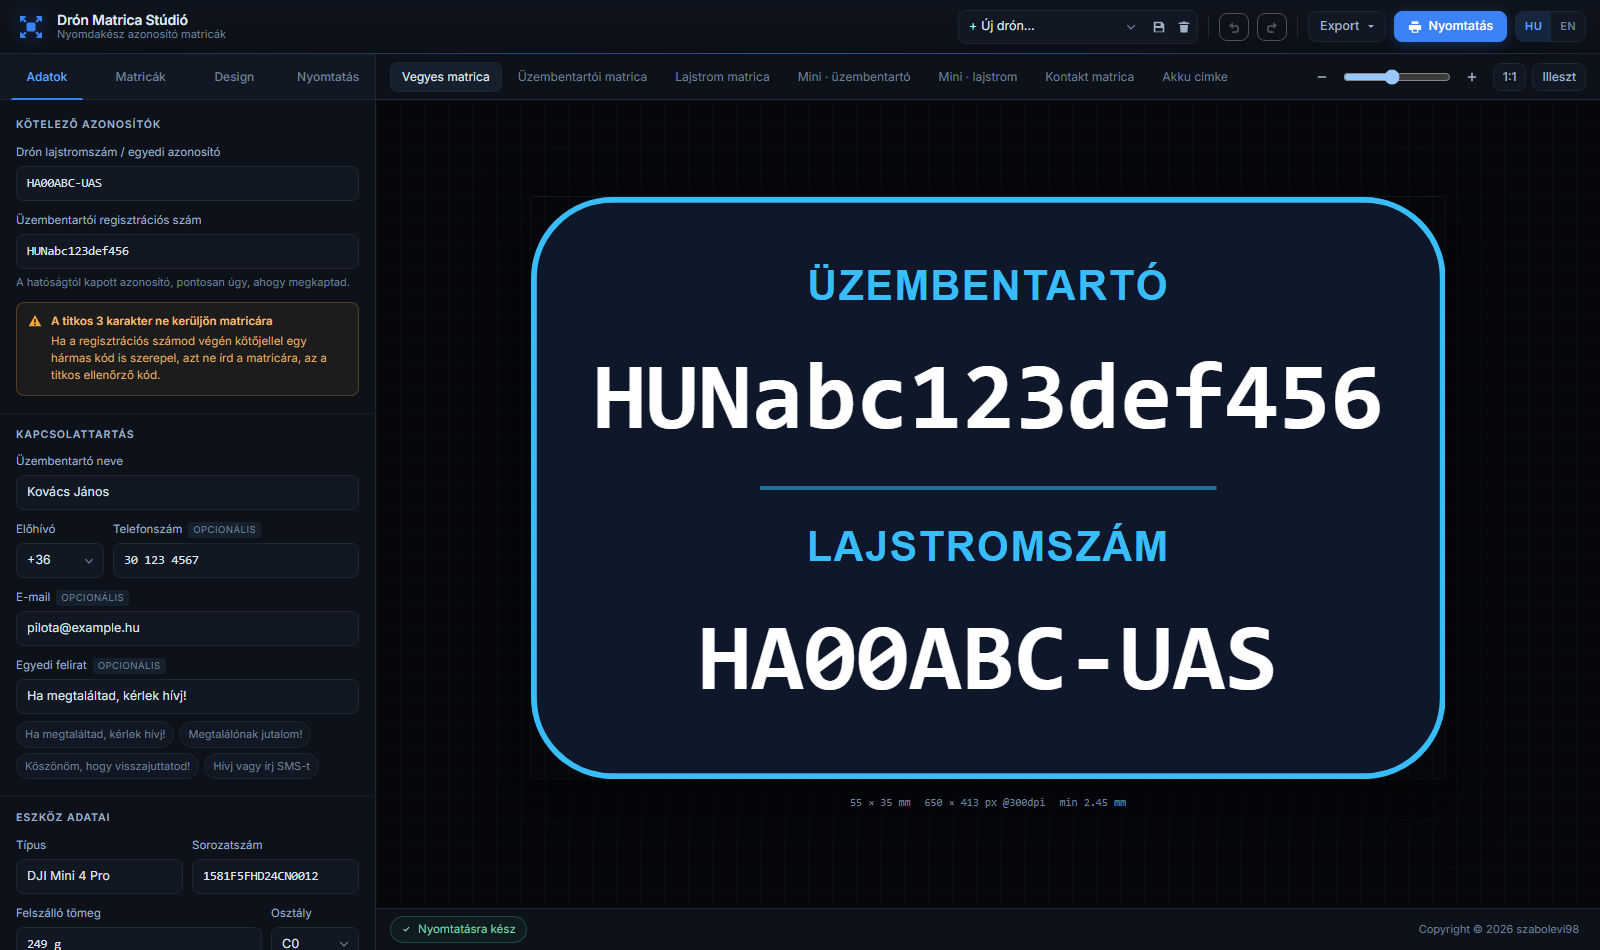
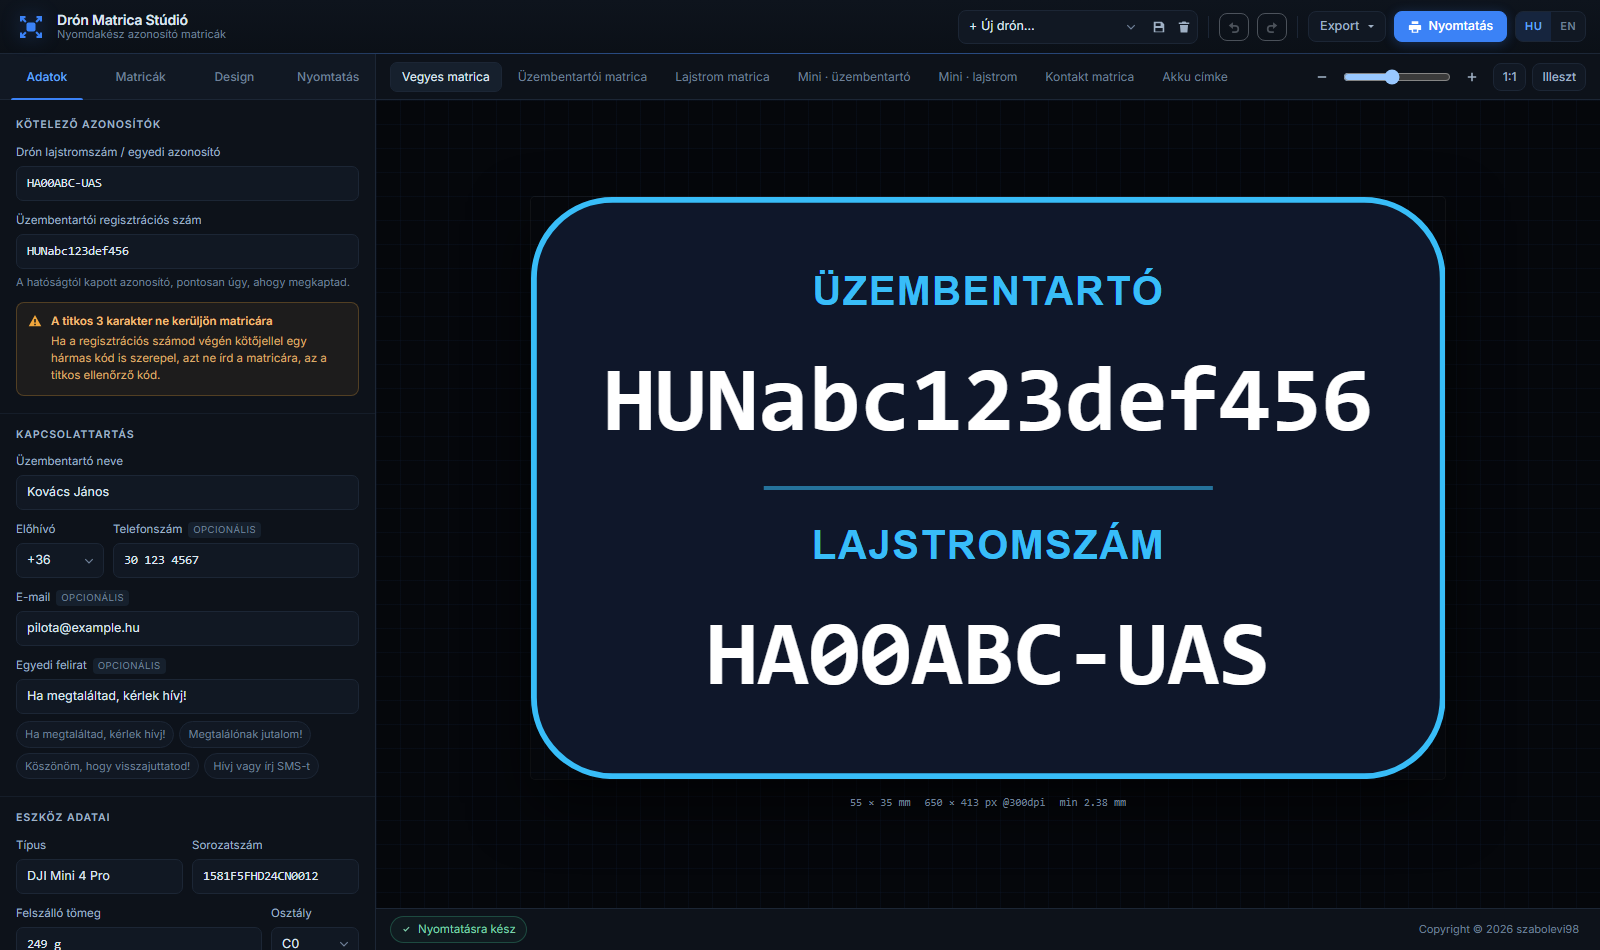
Az alapértelmezett belső margó 2,6 mm
A minta képek is újrarendereltek, a mostani alapbeállításokkal és a Vegyes
matricával az élen.

diff --git a/js/main.js b/js/main.js
@@ -62,7 +62,7 @@ function defaultState(demo) {
       bg: '#0f172a', fg: '#ffffff', accent: '#38bdf8', borderColor: '#38bdf8',
       font: 'sans', fill: 92, tracking: 2, align: 'middle',
       upper: true, monoIds: true, bilingual: false, regCaption: 'reg',
-      border: 0.35, padding: 2.2
+      border: 0.35, padding: 2.6
     },
     qr: { mode: 'tel', text: '', ecl: 'M', pos: 'right', scale: 42 },
     media: { logo: null, logoScale: 60, bg: null, bgOpacity: 22 },
